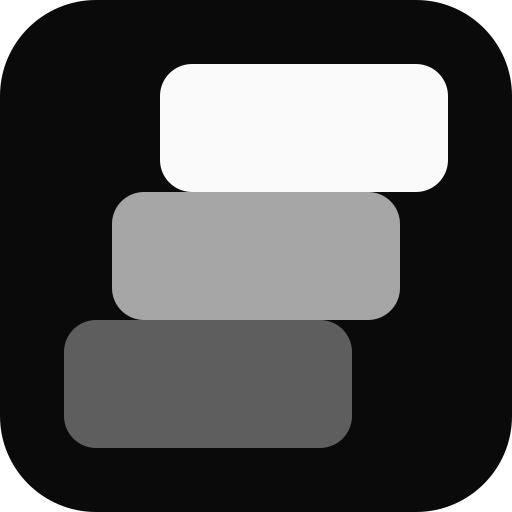
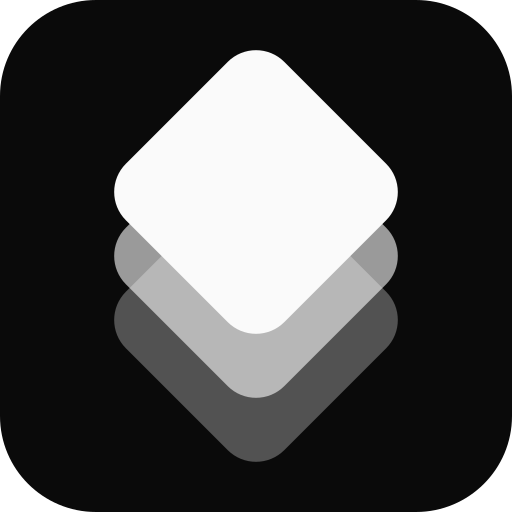
fix: brand mark uses rounded diamonds (matches design) + self-heal probe uses 127.0.0.1
brand: 3 stacked rectangles -> 3 rounded diamonds (45 deg rotated rects)

The previous mark used horizontal rectangles which read as flat cards
rather than the 3D isometric stack shown in the reference design. The
new mark uses <rect> with rx=2.5 and transform=rotate(45) to give
rounded-corner diamonds stacked vertically, exactly like the reference.
Same metaphor (bottom=repo, middle=build, top=live URL), same
monochromatic opacity ramp (0.3 / 0.6 / 1.0), same currentColor.

Updated everywhere: Logo.tsx, Icon.tsx IconLogo, favicon.svg,
og-image.svg, and regenerated all PNGs via scripts/make-deplox-logo.cjs.

fix: self-heal probe now connects to 127.0.0.1, not host.docker.internal

The TCP probe in container-self-heal.ts used host.docker.internal,
which is a Docker Desktop feature that only resolves inside
containers. The API runs on the host via 'pnpm dev' / 'tsx watch',
so the hostname did not resolve, every probe failed, and every
container was hard-restarted every 30s — the SIGTERM killed the
slow-booting Vite/Next dev servers before they could bind the port,
which manifested as flapping 502s on deplox.site.

Switched to 127.0.0.1 (loopback) since the deplox app's exposed port
is published to the host network. Also raised:
  HEALTH_PROBE_TIMEOUT_MS  2000 -> 5000  (some apps need >2s to respond
                                          on first start)
  STARTUP_GRACE_MS             0 -> 90000 (Vite/Next dev servers can
[…]

diff --git a/apps/api/src/services/container-self-heal.ts b/apps/api/src/services/container-self-heal.ts
@@ -25,7 +25,16 @@ import { docker } from './docker/real.js';
 const log = childLogger({ component: 'container-self-heal' });
 
 const PERIODIC_INTERVAL_MS = 30_000;
-const HEALTH_PROBE_TIMEOUT_MS = 2000;
+const HEALTH_PROBE_TIMEOUT_MS = 5000;
+
+/**
+ * Skip the TCP probe (and the resulting `docker restart`) for containers
+ * that are still warming up. Vite/Next dev servers can take 60-90s to
+ * bind the port after container start; without this grace window, self-heal
+ * hard-restarts a healthy container the moment the probe fires before the
+ * dev server is up, which manifests as flapping 502s on deplox.site.
+ */
+const STARTUP_GRACE_MS = 90_000;
 
 /**
  * TCP-level reachability probe for a deplox-deployed container.
@@ -37,8 +46,13 @@ const HEALTH_PROBE_TIMEOUT_MS = 2000;
  * we trade a few false-positive restarts (during slow app boot) for
  * catching the real "app is wedged" case within 30s instead of forever.
  *
- * Uses `host.docker.internal` because the API runs inside a container
- * and the deplox app's exposed port is published to the host network.
+ * Connects to 127.0.0.1 (loopback) because the deplox app's exposed port
+ * is published to the host network, and the API process runs on the host
+ * (via `pnpm dev` / `tsx watch`). `host.docker.internal` is a Docker
+ * Desktop feature meant for in-container use; it does not always resolve
+ * on the host, which caused every probe to fail and every container to
+ * be restarted every 30s — the SIGTERM kept killing the slow-booting
+ * apps (Vite/Next dev servers) before they could bind the port.
  */
 async function probeHostPort(hostPort: number, timeoutMs: number): Promise<boolean> {
   const net = await import('node:net');
@@ -55,7 +69,7 @@ async function probeHostPort(hostPort: number, timeoutMs: number): Promise<boole
     sock.once('connect', () => finish(true));
     sock.once('timeout', () => finish(false));
     sock.once('error', () => finish(false));
-    sock.connect(hostPort, 'host.docker.internal');
+    sock.connect(hostPort, '127.0.0.1');
   });
 }
 
@@ -102,7 +116,13 @@ export async function selfHealContainers(): Promise<SelfHealResult> {
         // host port and `docker restart` (hard restart) if it doesn't
         // respond. Uses host.docker.internal because we're inside Docker
         // and the container's exposed port is published to the host.
-        if (row.hostPort) {
+        //
+        // Skip the probe for the first STARTUP_GRACE_MS after a container
+        // (re)start — dev servers can take that long to bind the port and
+        // the probe would otherwise flap the container on every tick.
+        const startedAt = info.State.StartedAt ? new Date(info.State.StartedAt).getTime() : 0;
+        const warm = startedAt > 0 && Date.now() - startedAt < STARTUP_GRACE_MS;
+        if (row.hostPort && !warm) {
           const healthy = await probeHostPort(row.hostPort, 2000);
           if (!healthy) {
             log.warn(

diff --git a/apps/web/src/components/Logo.tsx b/apps/web/src/components/Logo.tsx
@@ -1,10 +1,10 @@
 /**
  * Deplox brand mark.
  *
- * Three rounded squares stacked diagonally. The metaphor:
- *   bottom (dim, offset left)    = your repo / source code
- *   middle (mid, centered)       = the build
- *   top    (full, offset right)  = the live HTTPS URL
+ * Three rounded diamonds (rotated squares) stacked vertically:
+ *   bottom (dim, lowest)   = your repo / source code
+ *   middle (mid, centered) = the build
+ *   top    (full, highest) = the live HTTPS URL
  *
  * Strictly monochromatic — uses currentColor so it adapts to the surrounding
  * text color (white in dark mode, black in light mode). No gradients, no
@@ -27,6 +27,17 @@ export interface LogoProps {
 }
 
 const ICON_VIEW = 32;
+// Each diamond is a 14x14 rect rotated 45° around its own center.
+// Centers are at (16, 20), (16, 16), (16, 12) — bottom, middle, top —
+// spaced 4px apart vertically. The rect's rx gives the rounded corners
+// that survive the rotation (Lucide-style).
+const RECT_SIZE = 14;
+const RECT_RX = 2.5;
+const TOP_Y = 5;     // top diamond's unrotated top-left
+const MID_Y = 9;
+const BOT_Y = 13;
+const CENTER_X = 16;
+const RECT_X = CENTER_X - RECT_SIZE / 2;
 
 function MarkSvg({
   size,
@@ -51,9 +62,30 @@ function MarkSvg({
       stroke="none"
       className={className}
     >
-      <rect x={4} y={20} width={18} height={8} rx={2} opacity={0.35} />
-      <rect x={7} y={12} width={18} height={8} rx={2} opacity={0.65} />
-      <rect x={10} y={4} width={18} height={8} rx={2} opacity={1} />
+      {/* bottom diamond — your repo (dim) */}
+      <rect
+        x={RECT_X} y={BOT_Y}
+        width={RECT_SIZE} height={RECT_SIZE}
+        rx={RECT_RX}
+        transform={`rotate(45 ${CENTER_X} ${BOT_Y + RECT_SIZE / 2})`}
+        opacity={0.3}
+      />
+      {/* middle diamond — the build (mid) */}
+      <rect
+        x={RECT_X} y={MID_Y}
+        width={RECT_SIZE} height={RECT_SIZE}
+        rx={RECT_RX}
+        transform={`rotate(45 ${CENTER_X} ${MID_Y + RECT_SIZE / 2})`}
+        opacity={0.6}
+      />
+      {/* top diamond — live URL (full) */}
+      <rect
+        x={RECT_X} y={TOP_Y}
+        width={RECT_SIZE} height={RECT_SIZE}
+        rx={RECT_RX}
+        transform={`rotate(45 ${CENTER_X} ${TOP_Y + RECT_SIZE / 2})`}
+        opacity={1}
+      />
     </svg>
   );
 }

diff --git a/apps/web/src/components/Icon.tsx b/apps/web/src/components/Icon.tsx
@@ -259,14 +259,16 @@ export function IconBolt(props: IconProps): JSX.Element {
 }
 
 export function IconLogo(props: IconProps): JSX.Element {
-  // Three stacked rounded squares — the deplox brand mark.
-  // Mirrors apps/web/src/components/Logo.tsx so any call site that still
-  // uses <IconLogo /> gets the new icon.
+  // Three rounded diamonds (rotated squares) stacked vertically — the
+  // deplox brand mark. Mirrors apps/web/src/components/Logo.tsx.
   return (
     <svg {...base(props)} viewBox="0 0 32 32" fill="currentColor" stroke="none">
-      <rect x={4} y={20} width={18} height={8} rx={2} opacity={0.35} />
-      <rect x={7} y={12} width={18} height={8} rx={2} opacity={0.65} />
-      <rect x={10} y={4} width={18} height={8} rx={2} opacity={1} />
+      <rect x={9} y={13} width={14} height={14} rx={2.5}
+            transform="rotate(45 16 20)" opacity={0.3} />
+      <rect x={9} y={9} width={14} height={14} rx={2.5}
+            transform="rotate(45 16 16)" opacity={0.6} />
+      <rect x={9} y={5} width={14} height={14} rx={2.5}
+            transform="rotate(45 16 12)" opacity={1} />
     </svg>
   );
 }
